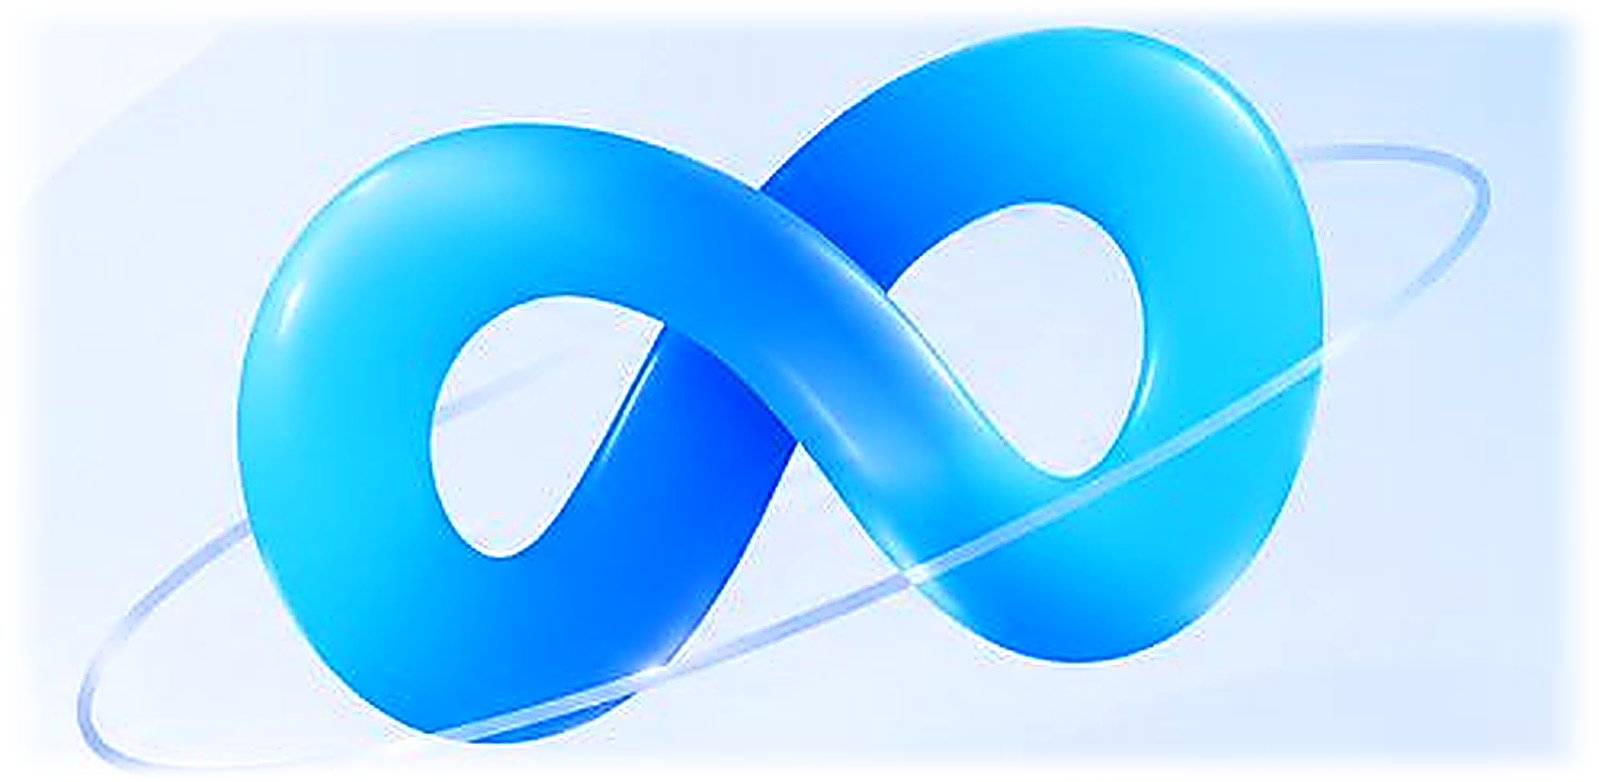
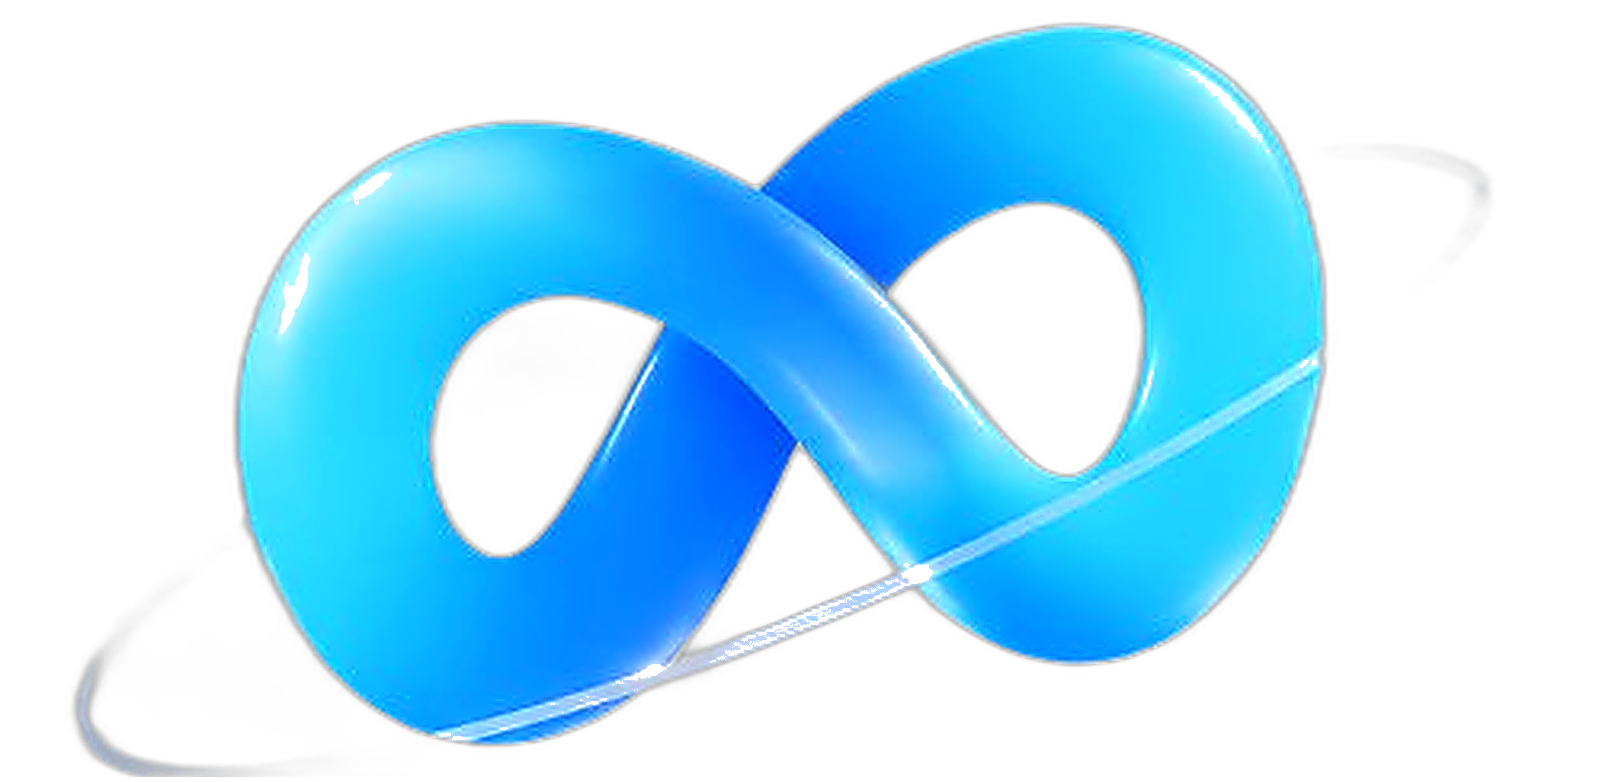
feat: 100% clean background removal on 3D blue infinity cutout with pure transparent alpha

diff --git a/index.html b/index.html
@@ -8,7 +8,7 @@
   <link rel="preconnect" href="https://fonts.gstatic.com" crossorigin>
   <link href="https://fonts.googleapis.com/css2?family=Poppins:ital,wght@0,400;0,500;0,600;0,700;1,700&display=swap" rel="stylesheet">
   <link rel="icon" type="image/png" href="logo.png">
-  <link rel="stylesheet" href="style.css?v=1793817267691">
+  <link rel="stylesheet" href="style.css?v=1793818012141">
   <link rel="stylesheet" href="app-shell.css?v=1793812732501">
 </head>
 <body>
@@ -169,8 +169,8 @@
           <!-- Static High-Clarity 3D Infinity Hero Visual (No Animation, 100% Crisp) -->
           <div class="cyber-canvas-wrap cyber-img-wrap">
             <picture>
-              <source srcset="images/hero-infinity-hd.webp" type="image/webp">
-              <img src="images/hero-infinity-hd.png" alt="HEA Link 3D Blue Infinity" class="hero-infinity-img" width="560" height="274" loading="eager" decoding="async">
+              <source srcset="images/hero-infinity-hd.webp?v=1793818012141" type="image/webp">
+              <img src="images/hero-infinity-hd.png?v=1793818012141" alt="HEA Link 3D Blue Infinity" class="hero-infinity-img" width="560" height="274" loading="eager" decoding="async">
             </picture>
           </div>
         </div>

diff --git a/style.css b/style.css
@@ -877,6 +877,14 @@ input[type=color] {
   overflow: visible;
 }
 
+.cyber-stage-container,
+.cyber-canvas-wrap,
+.cyber-img-wrap {
+  background: transparent !important;
+  border: none !important;
+  box-shadow: none !important;
+}
+
 .hero-infinity-img {
   width: 100%;
   max-width: 540px;
@@ -885,7 +893,10 @@ input[type=color] {
   object-fit: contain;
   user-select: none;
   pointer-events: none;
-  filter: drop-shadow(0 16px 35px rgba(0, 112, 243, 0.16));
+  background: transparent !important;
+  border: none !important;
+  outline: none !important;
+  filter: drop-shadow(0 20px 40px rgba(0, 112, 243, 0.22));
   animation: none !important;
   transition: none !important;
 }
